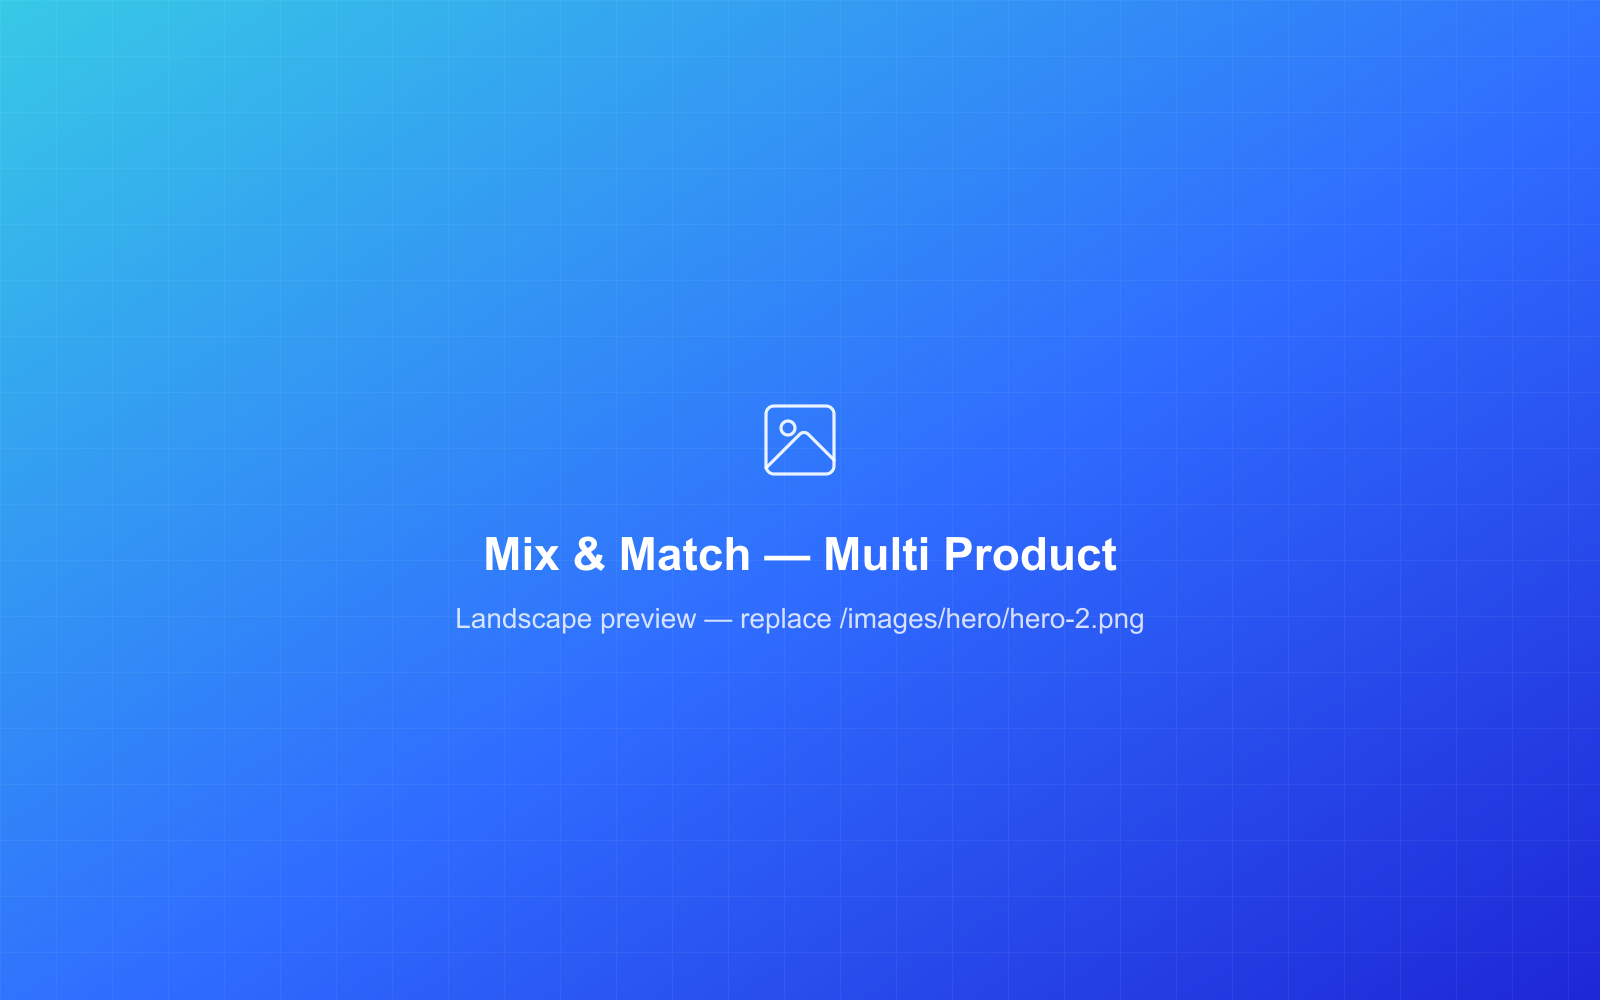
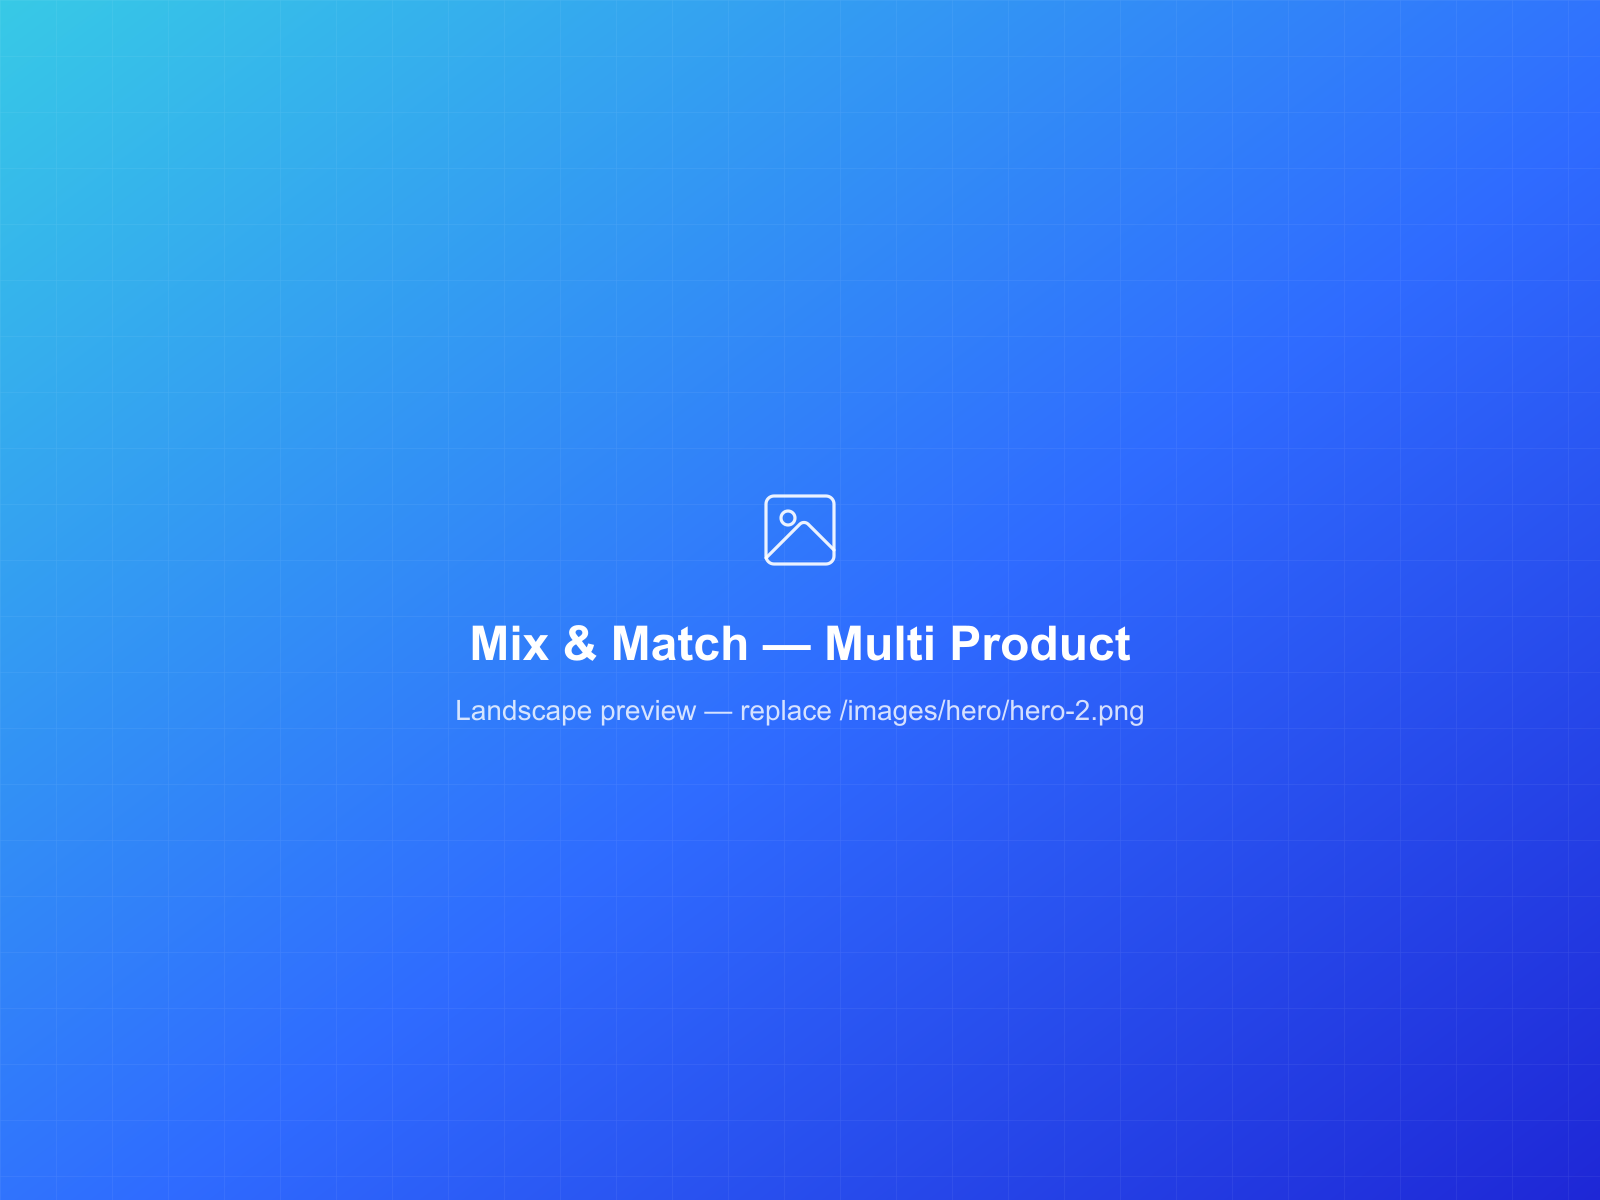
Hero demo: taller frame, dots under the slider, calmer border
- Increase the demo height: 16:10 -> 4:3 frame (width unchanged); regenerate
  the placeholder assets at 1600x1200.
- Move the slide dots to UNDER the slider instead of overlaying the image;
  restyle them for the page background (primary active / muted inactive).
- Replace the bright brand-gradient border with a subtle border + shadow so
  focus stays on the image, not the edge.
- Keep the carousel role/label on the wrapper so it encompasses frame + dots.

Changed region(s): [[0.2812, 0.527, 0.7188, 0.651], [0.4688, 0.403, 0.5312, 0.496]]

diff --git a/components/sections/hero-slider.tsx b/components/sections/hero-slider.tsx
@@ -13,7 +13,7 @@ export type HeroSlide = { src: string; alt: string };
  * the lightbox is open (not on hover — a portal-covered hover could leave it
  * stuck paused). Dots jump to a slide; respects reduced-motion.
  *
- * Landscape (16:10) frames. Until the real screenshots land at each `src`, a
+ * Landscape (4:3) frames. Until the real screenshots land at each `src`, a
  * branded placeholder is shown so the hero never looks broken. Clicking a slide
  * (when its image is present) opens it enlarged in a dimmed lightbox.
  */
@@ -83,104 +83,101 @@ export function HeroSlider({
       role="group"
       aria-roledescription="carousel"
       aria-label="PushBundle feature previews"
-      className="relative aspect-16/10 overflow-hidden rounded-[0.9rem] bg-surface"
     >
-      {/* Trigger layer — holds the slides, hint and dots plus the open/pause
-          handlers. The lightbox portal is a SIBLING of this (not a child), so
-          React portal event-bubbling can't route the portal's clicks/focus back
-          into these handlers and leave the carousel stuck paused/reopening. */}
-      <div
-        onFocusCapture={() => setPaused(true)}
-        onBlurCapture={() => setPaused(false)}
-        onClick={() => currentOk && setZoom(true)}
-        className={cn(
-          "absolute inset-0",
-          currentOk ? "cursor-zoom-in" : "cursor-default",
-        )}
-      >
-        {slides.map((slide, i) =>
-          imgOk[i] ? (
-            <Image
-              key={slide.src}
-              src={slide.src}
-              alt={i === index ? slide.alt : ""}
-              aria-hidden={i !== index}
-              fill
-              priority={i === 0}
-              quality={90}
-              sizes="(min-width: 1024px) 48rem, (min-width: 640px) 40rem, 92vw"
-              onError={() =>
-                setImgOk((prev) => prev.map((v, idx) => (idx === i ? false : v)))
-              }
-              className={cn(
-                "object-cover transition-opacity duration-700 ease-out motion-reduce:transition-none",
-                i === index ? "opacity-100" : "opacity-0",
-              )}
-            />
-          ) : (
-            <div
-              key={slide.src}
-              aria-hidden={i !== index}
-              className={cn(
-                "transition-opacity duration-700 ease-out motion-reduce:transition-none",
-                i === index ? "opacity-100" : "opacity-0",
-              )}
-            >
-              <SlidePlaceholder label={slide.alt} />
-            </div>
-          ),
-        )}
+      {/* Frame — a soft, low-key border/shadow so attention stays on the image,
+          not a bright gradient edge. */}
+      <div className="relative aspect-4/3 overflow-hidden rounded-2xl border border-border bg-surface shadow-lift">
+        {/* Trigger layer — holds the slides + hint plus the open/pause handlers.
+            The lightbox portal is a SIBLING of this (not a child), so React
+            portal event-bubbling can't route the portal's clicks/focus back into
+            these handlers and leave the carousel stuck paused/reopening. */}
+        <div
+          onFocusCapture={() => setPaused(true)}
+          onBlurCapture={() => setPaused(false)}
+          onClick={() => currentOk && setZoom(true)}
+          className={cn(
+            "absolute inset-0",
+            currentOk ? "cursor-zoom-in" : "cursor-default",
+          )}
+        >
+          {slides.map((slide, i) =>
+            imgOk[i] ? (
+              <Image
+                key={slide.src}
+                src={slide.src}
+                alt={i === index ? slide.alt : ""}
+                aria-hidden={i !== index}
+                fill
+                priority={i === 0}
+                quality={90}
+                sizes="(min-width: 1024px) 48rem, (min-width: 640px) 40rem, 92vw"
+                onError={() =>
+                  setImgOk((prev) =>
+                    prev.map((v, idx) => (idx === i ? false : v)),
+                  )
+                }
+                className={cn(
+                  "object-cover transition-opacity duration-700 ease-out motion-reduce:transition-none",
+                  i === index ? "opacity-100" : "opacity-0",
+                )}
+              />
+            ) : (
+              <div
+                key={slide.src}
+                aria-hidden={i !== index}
+                className={cn(
+                  "transition-opacity duration-700 ease-out motion-reduce:transition-none",
+                  i === index ? "opacity-100" : "opacity-0",
+                )}
+              >
+                <SlidePlaceholder label={slide.alt} />
+              </div>
+            ),
+          )}
 
-        {/* Hint that the preview is zoomable (only when there's a real image). */}
-        {currentOk && (
-          <span
-            aria-hidden="true"
-            className="absolute right-3 top-3 grid size-8 place-items-center rounded-full bg-black/45 text-white backdrop-blur-sm"
-          >
-            <svg
-              viewBox="0 0 24 24"
-              className="size-4"
-              fill="none"
-              stroke="currentColor"
-              strokeWidth="2"
-              strokeLinecap="round"
-              strokeLinejoin="round"
-            >
-              <circle cx="11" cy="11" r="7" />
-              <path d="m21 21-4.3-4.3M11 8v6M8 11h6" />
-            </svg>
-          </span>
-        )}
-
-        {count > 1 && (
-          <>
-            <div
+          {/* Hint that the preview is zoomable (only when there's a real image). */}
+          {currentOk && (
+            <span
               aria-hidden="true"
-              className="pointer-events-none absolute inset-x-0 bottom-0 h-16 bg-linear-to-t from-black/30 to-transparent"
-            />
-            <div className="absolute inset-x-0 bottom-3.5 z-10 flex justify-center gap-2">
-              {slides.map((slide, i) => (
-                <button
-                  key={slide.src}
-                  type="button"
-                  onClick={(e) => {
-                    e.stopPropagation();
-                    setIndex(i);
-                  }}
-                  aria-label={`Show slide ${i + 1} of ${count}`}
-                  aria-current={i === index}
-                  className={cn(
-                    "h-2 rounded-full ring-1 ring-black/10 transition-all duration-300",
-                    i === index
-                      ? "w-6 bg-white"
-                      : "w-2 bg-white/60 hover:bg-white/85",
-                  )}
-                />
-              ))}
-            </div>
-          </>
-        )}
+              className="absolute right-3 top-3 grid size-8 place-items-center rounded-full bg-black/45 text-white backdrop-blur-sm"
+            >
+              <svg
+                viewBox="0 0 24 24"
+                className="size-4"
+                fill="none"
+                stroke="currentColor"
+                strokeWidth="2"
+                strokeLinecap="round"
+                strokeLinejoin="round"
+              >
+                <circle cx="11" cy="11" r="7" />
+                <path d="m21 21-4.3-4.3M11 8v6M8 11h6" />
+              </svg>
+            </span>
+          )}
+        </div>
       </div>
+
+      {/* Dots — UNDER the slider (not overlaid on the image). */}
+      {count > 1 && (
+        <div className="mt-4 flex justify-center gap-2">
+          {slides.map((slide, i) => (
+            <button
+              key={slide.src}
+              type="button"
+              onClick={() => setIndex(i)}
+              aria-label={`Show slide ${i + 1} of ${count}`}
+              aria-current={i === index}
+              className={cn(
+                "h-2.5 rounded-full transition-all duration-300",
+                i === index
+                  ? "w-6 bg-primary"
+                  : "w-2.5 bg-foreground/20 hover:bg-foreground/40",
+              )}
+            />
+          ))}
+        </div>
+      )}
 
       {/* Lightbox — full image enlarged. Portaled to <body> so it escapes the
           Lenis transform wrapper (a transformed ancestor would otherwise trap
@@ -198,7 +195,7 @@ export function HeroSlider({
           >
             <div
               onClick={(e) => e.stopPropagation()}
-              className="relative aspect-16/10 max-h-[86vh] w-[92vw] max-w-[80rem] cursor-default"
+              className="relative aspect-4/3 max-h-[86vh] w-[92vw] max-w-6xl cursor-default"
             >
               <Image
                 src={current.src}

diff --git a/components/sections/hero.tsx b/components/sections/hero.tsx
@@ -6,9 +6,9 @@ import { hero } from "@/lib/content/home";
 import type { AggregateRating } from "@/lib/cms";
 
 /**
- * Feature previews shown in the hero slider — LANDSCAPE (16:10) screenshots at
+ * Feature previews shown in the hero slider — LANDSCAPE (4:3) screenshots at
  * /images/hero/hero-1..5.png. Until those assets are added, each slide shows a
- * branded placeholder (see HeroSlider). Recommended size: 1600×1000 (16:10).
+ * branded placeholder (see HeroSlider). Recommended size: 1600×1200 (4:3).
  */
 const HERO_SLIDES = [
   {
@@ -138,11 +138,11 @@ export function Hero({ rating }: { rating: AggregateRating }) {
           </p>
         </div>
 
-        {/* Feature preview slider — landscape, fills its column */}
+        {/* Feature preview slider — landscape, fills its column. The slider
+            frames itself (subtle border) so the bright gradient edge no longer
+            pulls focus off the image. */}
         <div className="relative mx-auto w-full max-w-2xl lg:mx-0 lg:max-w-none">
-          <div className="rounded-[1.25rem] bg-brand-gradient p-1.5 shadow-lift">
-            <HeroSlider slides={HERO_SLIDES} />
-          </div>
+          <HeroSlider slides={HERO_SLIDES} />
         </div>
       </div>
     </section>
